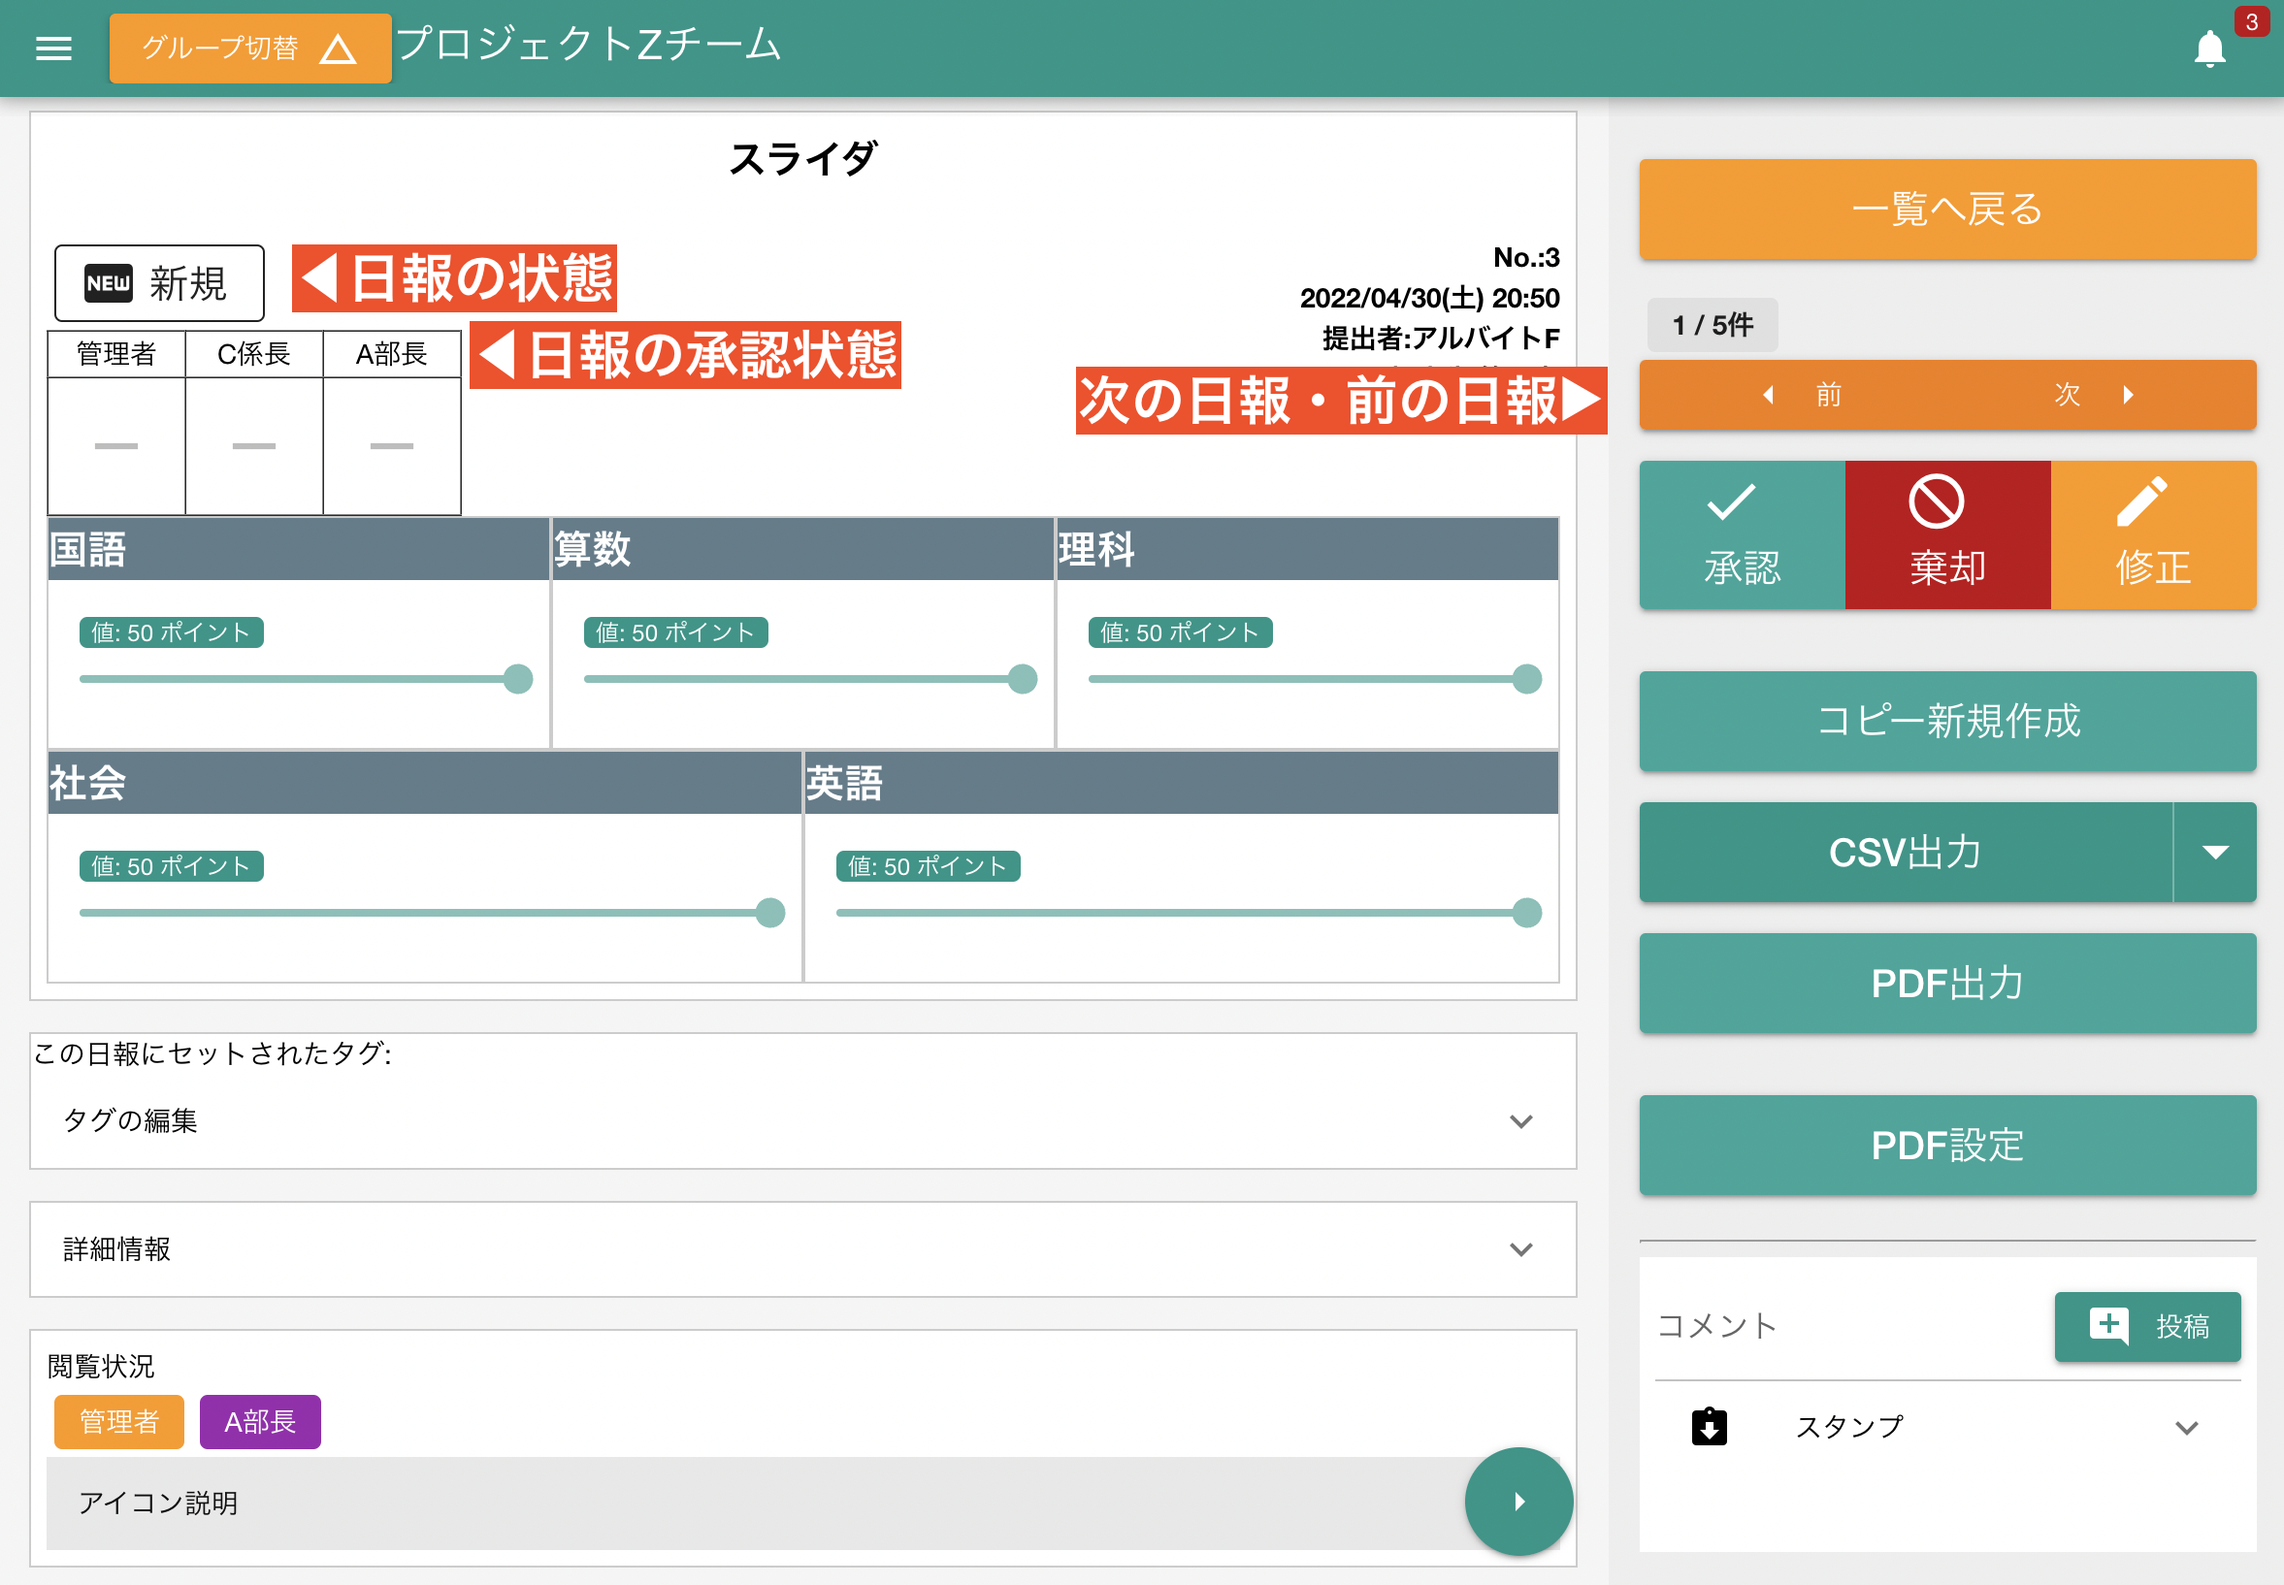
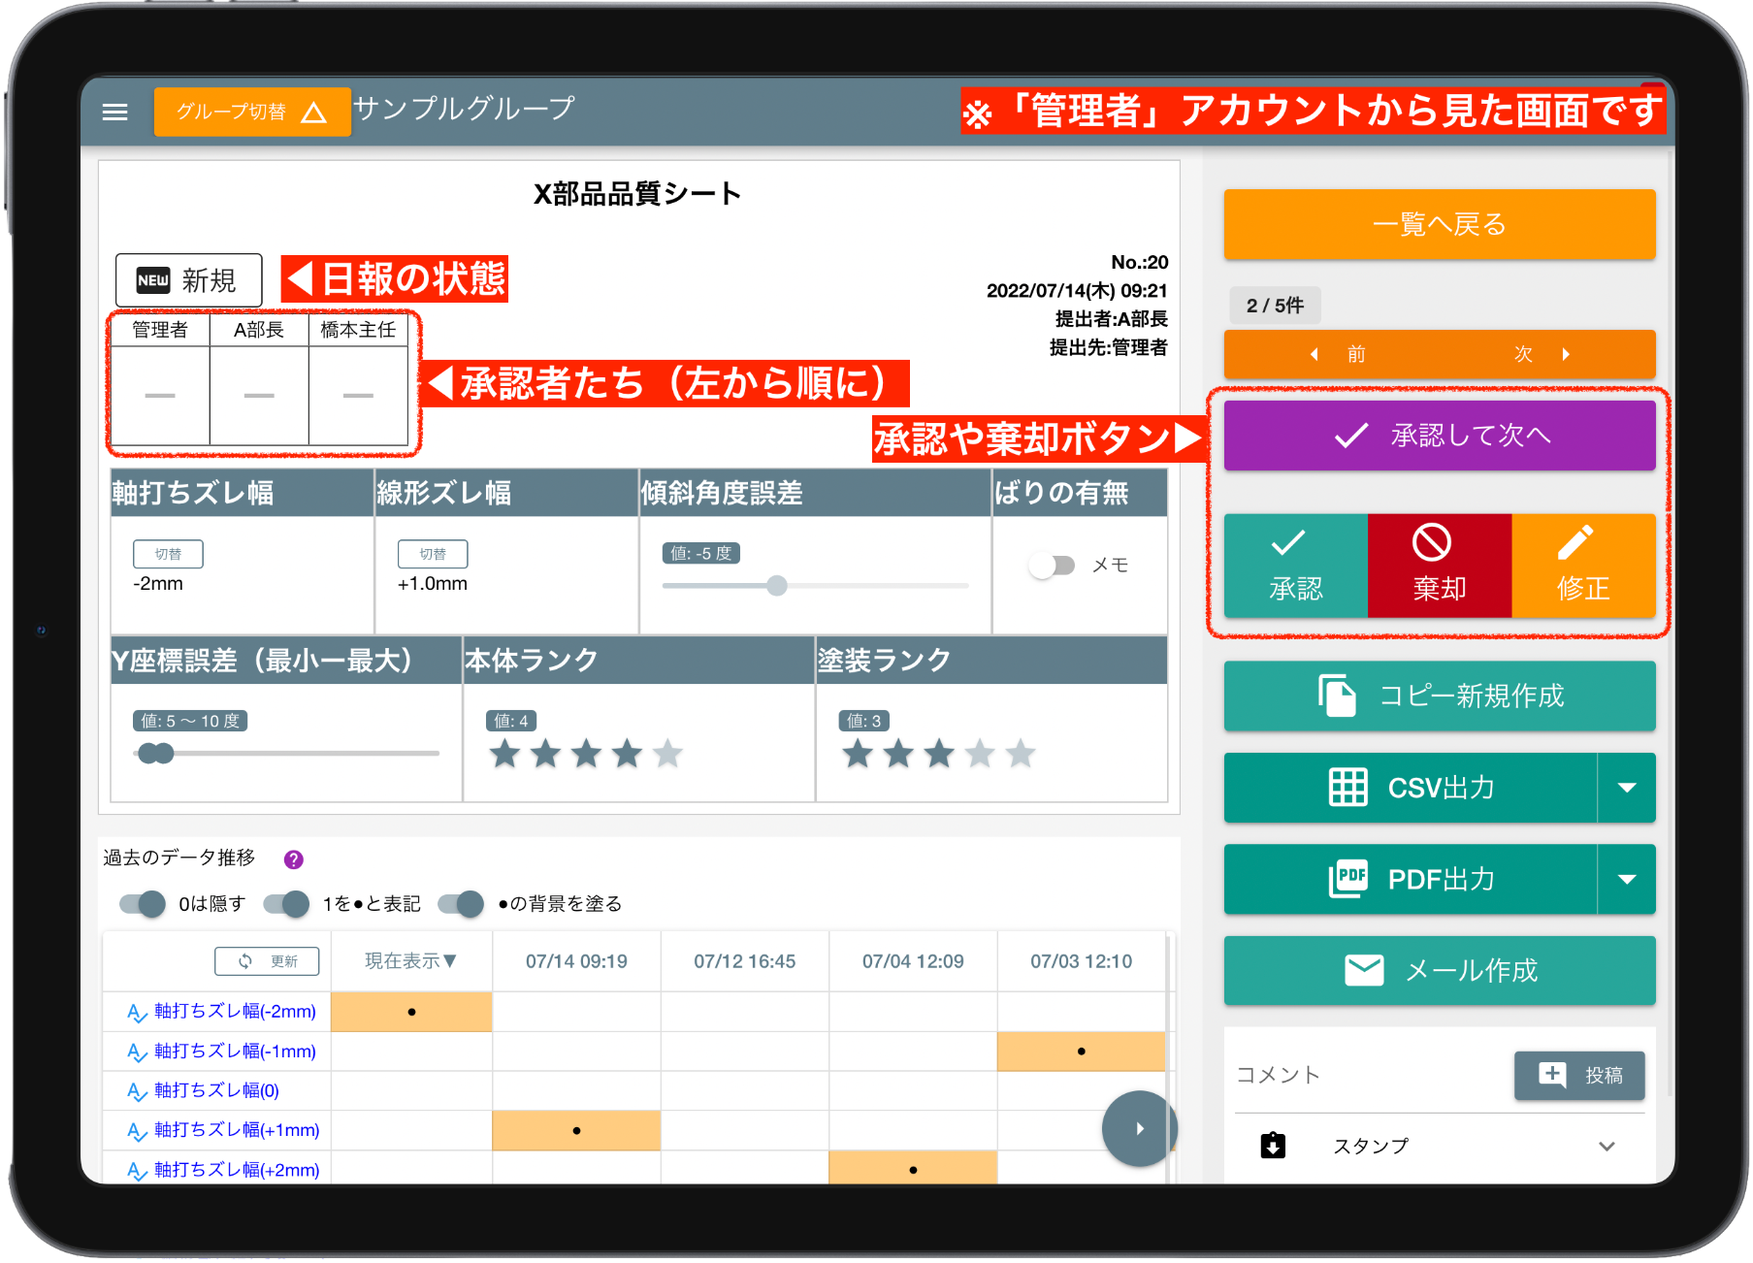
kidoku

diff --git a/content/report/read/state/index.md b/content/report/read/state/index.md
@@ -1,5 +1,5 @@
 +++
-title = "日報の承認と棄却"
+title = "承認・棄却・既読"
 # description = "チャプター"
 tags = ["日報を読む"]
 weight = 10
@@ -9,61 +9,92 @@ weight = 10
 +++
 
 
-[日報保存箱](/report/read/list/)から１つの日報を選択すると、１件の日報が詳細表示されます
+[日報保存箱](/report/read/list/)から１つの日報を選択すると１件の日報やチェックシートの詳細表示画面に切り替わります。詳細表示画面は表示中の日報と自身との関係性によって画面が少し異なります。
+日報との関係性ですが、以下の3種類に分岐します
 
-{{<imgproc icatch.png Resize "1200x" "日報の詳細表示" />}}
+- 自身が提出先に指定されている日報（承認や棄却ができる）
+- 自身が共有先に指定されている日報（承認棄却ができない）
+- 自身が作成した日報
 
-左側の領域に日報本体が表示され、右側には様々なメニューが表示されます。
+この内自身が作成した日報の表示については[日報の修正のページ](/report/write/rewrite/)で触れているのでそちらを参照してください。
 
-## 日報の状態は4種類
+## 日報・チェックシートの状態は4種類
 
-日報の状態は次の種類があります
+1つ1つの日報やチェックシートにはそれぞれ状態があります。状態は承認されたり修正したりすることで常に変化していきますが、最終的には承認の状態に向かって進みます。
+承認がされるとその日報・チェックシートはロックが掛かり特別な操作をしない限り削除・編集できなくなります。状態は以下のとおりです。
 
-|名称|説明|
-|---|---|
-|新規|日報が作成され、まだ承認や棄却が行われていない状態|
-|進行|1名以上が承認をし、且つ最終承認者がまだ承認していない状態。日報はロックされ修正はできません|
-|棄却|棄却された状態|
-|承認|最終承認者が日報を承認した状態|
-|修正|日報を修正したあとで、まだ承認や棄却が行われていない状態|
+|名称|説明|削除|修正|
+|---|---|:---:|:---:|
+|新規|日報が作成され、まだ承認や棄却が行われていない状態|可|可|
+|進行|1名以上が承認をし、かつ最終承認者がまだ承認していない状態です。「承認リレー中」と呼ぶこともあります|不可|不可|
+|棄却|棄却された状態です。修正が必要です|不可|可|
+|修正|日報を修正したあとで、まだ承認や棄却が行われていない状態です。新規と違い削除はできません|不可|可|
+|承認|最終承認者が日報を承認した状態です。最終的にはこの状態を目指していきます|不可|不可|
 
 {{<alice pos="right" icon="here">}}
-承認すると**日報の状態が進行**になります。しかし承認者が1名の場合は進行を飛ばして**承認**状態になります
+承認された日報を消したい場合は[日報の一括削除](/remove/reportbatch/)を御覧ください
 {{</alice>}}
 
-### 日報の承認リレー
 
-少し具体例をあげます。ある日報の承認者が「管理者」＞「C係長」＞「A部長」となっている場合、最初に「管理者」が日報を承認します。
-（C係長やA部長は先に承認できません）
+## 日報やチェックシートを承認する
 
-{{<imgproc stateProgress.png Resize "1200x" "「管理者」が日報を承認したことで日報の状態が「進行」に変化した" />}}
+日報やチェックシートを承認できるのは提出先に指定されたスタッフのみです。提出先が複数指定された場合は指定した順に承認が行われます。つまり二人以上が同時に承認することはできません。
+さて承認できる日報やチェックシートを表示すると、次のような画面になります。
 
-その後も順調に「C係長」＞「A部長」が承認をしていきます。
-最終承認者が承認すると、日報の状態は**承認**となります。  
-（※一番最後の承認者が**最終承認者**です。この例では「A部長」が最終承認者。承認者が1名しか居ない場合はその人が最終承認者です）
-{{<imgproc stateDone.png Resize "1200x" "最終承認者が承認したことで日報の状態が「承認」に変化した" />}}
+{{<imgproc icatch.png Resize "1200x" "承認が可能な日報やチェックシートを開いた例。画面右側に承認や棄却ボタンが表示されていることが確認できます。" />}}
 
-このように承認をバトンリレー式につないで行くことができます。なおリレーの途中で**誰か1名でも棄却すると日報の状態は棄却**になります
+今回例に使用している「X部品品質シート」を詳しく見てみましょう。画面左上には「新規」と書かれており、これが現在の品質シートの状態を表しています。まだ誰も承認棄却していないため「新規」です。
+その下の検印欄には左から順に「管理者」「A部長」「橋本主任」と並んでいますね。この３名が左から順に承認や棄却を行うことになります。
+検印欄の一番右側に書かれたスタッフが**最終承認権者**です。この例では「橋本主任」が最終承認権者になります。最終承認が得られることで初めて日報の状態が「承認」になります。
+画面右側に目を向けると「承認」や「棄却」といったボタンが並んでいます。これは管理者のアカウントから見た画面ですが、現在表示中の評価シートは管理者アカウントの承認待ちであるため表示されています。
+A部長や橋本主任はまだ承認できないため彼らの画面からは承認・棄却ボタンは表示されていません。（詳しくは既読のセクションを参照）
 
-{{<imgproc stateReject.png Resize "1200x" "日報の状態が「棄却」の例" />}}
-
-## 日報を承認・棄却する
-
-承認、棄却ができるスタッフの画面では右側のメニューに　**「承認・棄却」ボタンが表示され**ます。
-
-{{<alice pos="right" icon="question">}}
-ボタンが出ない場合はまだ承認リレーのバトンが回ってきていないか、提出先に指定されていないか確認しよう
+{{<alice pos="right" icon="ok">}}
+検印欄が長すぎるのは良くないよ。1〜3程度が理想かな
 {{</alice>}}
 
-{{<imgproc agree1.png Resize "1200x" "自分が承認できる状態の日報" />}}
+ではこのチェックシートを「承認」してみます。承認ボタンを押すことで承認できます。なお「承認して次へ」というボタンは承認と同時に２枚目の日報・チェックシートへページを切り替えるという意味です。承認業務が多くて大変な場合はうまく活用してください。
+
 
 |名称|説明|
 |---|---|
-|承認ボタン|日報を承認します。後続に承認者がいる場合、承認権限が後続のスタッフに移行します（つまり承認権限が無くなりますので承認取り消しできません。注意）。あなたが最終承認者の場合は承認権限が移行せずボタンに変化は有りません|
-|棄却ボタン|日報を棄却します。棄却された旨が日報作成者に伝わり、その後の対応は会社によって定めてください。一般的には日報を修正して再提出することになります。棄却時は次の承認権限者への承認権限移転は発生しないため、承認・棄却ボタンはそのまま表示されます。|
+|承認ボタン|日報を承認します。後続に承認者がいる場合承認権限が後続のスタッフに移行します。|
+|棄却ボタン|日報を棄却します。棄却された旨が日報作成者に伝わります。|
 |承認して次へボタン|承認ボタンとほぼ同じですが、承認後に次の日報へ画面が自動で切り替わります。承認しなければならない日報がたくさんある場合にご利用ください|
+|修正ボタン|提出先に指定されたスタッフは代理で日報を修正できます。詳しくは[日報の修正](/report/write/rewrite/)を参照して下さい|
 
-### 日報の棄却とリレーの切断
 
-一度棄却されて修正された日報の承認リレーはどうなるのでしょうか？
-正解は「最初からやり直し」になります。（承認後に内容が変わっているためです）
+{{<imgproc progress.png Resize "1200x" "一人目が承認したため状態が「進行」に変化しました。承認の権限は二人目へ自動で切り替わります。" />}}
+
+チェックシートの状態が新規から「進行」へ切り替わりました。この時点でこのチェックシートは編集ロックが掛かります。  
+「管理者」が承認することで承認の権限は次のスタッフ（A部長）に移行します。管理者はこの時点で承認権限がなくなるため、承認や棄却ボタンが表示されなくなります。
+最後に流れを少し進めて、最終承認権者が承認したところを見てみましょう。
+
+{{<imgproc agree.png Resize "1200x" "全員が承認したため日報の状態が「承認」となりました" />}}
+
+全員が承認しおえるとチェックシートは「承認」状態になります。これまでは承認すると承認の権限が次のスタッフへ移りましたが最終承認者の場合は次が居ないため、承認権限は最終承認者のところでとどまり続けます。
+
+## 日報やチェックシートを棄却する
+
+チェックシートが順調に承認されればよいのですがそうならない場合もあるかもしれません。棄却をクリックするとそのチェックシートは棄却状態に切り替わります。
+
+{{<imgproc reject.png Resize "1200x" "承認リレー中に誰かが棄却するとその時点で日報の状態は「棄却」となります。" />}}
+
+棄却の際は承認権限が次のスタッフへ移管しません。なので棄却しても承認や棄却ボタンはそのまま表示され続けます。承認権限は残ったままなので一度棄却したけど取り消しして承認するといったこともできます。
+棄却された事実は日報・チェックシートのオーナーに対して通知されます。棄却されたチェックシートをその後どうするのかは各会社でルールを明確に決めておくと良いでしょう。
+一般的には修正して再提出という流れになるかと思います。もし修正が必要な場合は[日報・チェックシートの修正](/report/write/rewrite/)を御覧ください
+
+{{<alice pos="right" icon="ok">}}
+状態一覧でも書きましたが棄却の日報は修正のロックが解除されているため修正できます
+{{</alice>}}
+
+## 日報・チェックシートを既読する
+
+ここまでは日報やチェックシートの状態を変化させる承認・棄却について見てきました。これらの操作は「日報の提出先」として指定されたスタッフしか行うことができません。
+一方で「他に日報を読める人」のリストに登録されたスタッフは、承認・棄却の権限はありませんが閲覧の権限がある状態です。
+この状態で日報やチェックシートを表示すると、承認や棄却ボタンは表示されず、代わりに「既読」ボタンが表示されます。
+
+{{<imgproc readed.png Resize "1200x" "共有先に指定されている状態です" />}}
+
+既読ボタンを押すと表示中の日報やチェックシートに自分の既読サインが付きます。閲覧状況にも自分の名前が既読として表示されるので、誰が読んでくれたかが分かるような仕組みになっています。
+日報の状態に直接影響はありませんが読んだサインとして既読を押すとよりスムーズな情報共有が行えるようになります。
